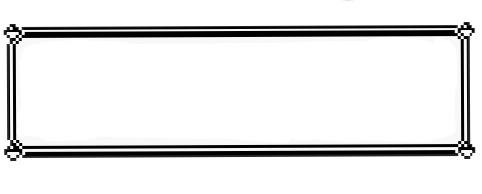
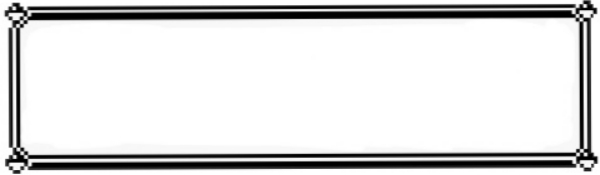
resizing background text overlay image

diff --git a/me/samfreeman/Helper/TextOverlay.py b/me/samfreeman/Helper/TextOverlay.py
@@ -10,12 +10,7 @@ import me.samfreeman.GameControl.GV as GV
 class TextOverlay:
     def __init__(self, text, speaker):
         self.height = GV.CANVAS_HEIGHT * 0.2
-        self.outline = Rectangle(Vector((GV.CANVAS_WIDTH / 2, GV.CANVAS_HEIGHT - self.height / 2)),
-                                 GV.CANVAS_WIDTH,
-                                 self.height)
-        self.textWrap = Rectangle(Vector((GV.CANVAS_WIDTH * 0.2, self.outline.position.y)),
-                                  GV.CANVAS_WIDTH,
-                                  self.height)
+
 
         self.speakerList = [speaker]
         self.currentSpeakerIndex = 0
@@ -26,8 +21,11 @@ class TextOverlay:
         self.BACKGROUND_CENTER = Vector((self.BACKGROUND_WIDTH/2, self.BACKGROUND_HEIGHT/2))
         self.BACKGROUND_POSITION = Vector((GV.CANVAS_WIDTH / 2, GV.CANVAS_HEIGHT - self.height / 2))
 
+        self.textWrap = Rectangle(Vector((GV.CANVAS_WIDTH * 0.2, self.BACKGROUND_POSITION.y)),
+                                  GV.CANVAS_WIDTH,
+                                  self.height)
 
-        self.speakerImg = Rectangle(Vector((self.height * 0.5, self.outline.position.y)),
+        self.speakerImg = Rectangle(Vector((self.height * 0.5, self.BACKGROUND_POSITION.y)),
                                     self.height * 0.5,
                                     self.height * 0.5)
         self.maxCharacterCount = 100
@@ -58,9 +56,9 @@ class TextOverlay:
     def display(self, canvas):
         if not(self.done):
             #self.outline.draw(canvas, "White", "White")
-            canvas.draw_image(self.BACKGROUND_LOAD,self.BACKGROUND_CENTER.getP(),(self.BACKGROUND_WIDTH,self.BACKGROUND_HEIGHT),self.BACKGROUND_POSITION.getP(),(self.BACKGROUND_WIDTH,self.BACKGROUND_HEIGHT))
+            canvas.draw_image(self.BACKGROUND_LOAD,self.BACKGROUND_CENTER.getP(),(self.BACKGROUND_WIDTH,self.BACKGROUND_HEIGHT),self.BACKGROUND_POSITION.getP(),(self.BACKGROUND_WIDTH,self.height))
 
             self.speakerImg.draw(canvas, "Black", "Black")
             canvas.draw_text(self.currentSpeaker, [self.speakerImg.left, self.speakerImg.top - 5], 15, "Black", "monospace")
             canvas.draw_text(self.displayedText, self.textWrap.position.getP(), 15, "Black", "monospace")
-            canvas.draw_text(self.continueText, [self.textWrap.position.x, GV.CANVAS_HEIGHT - 15], 15, "Black", "monospace")
+            canvas.draw_text(self.continueText, [self.textWrap.position.x, GV.CANVAS_HEIGHT - 20], 15, "Black", "monospace")
